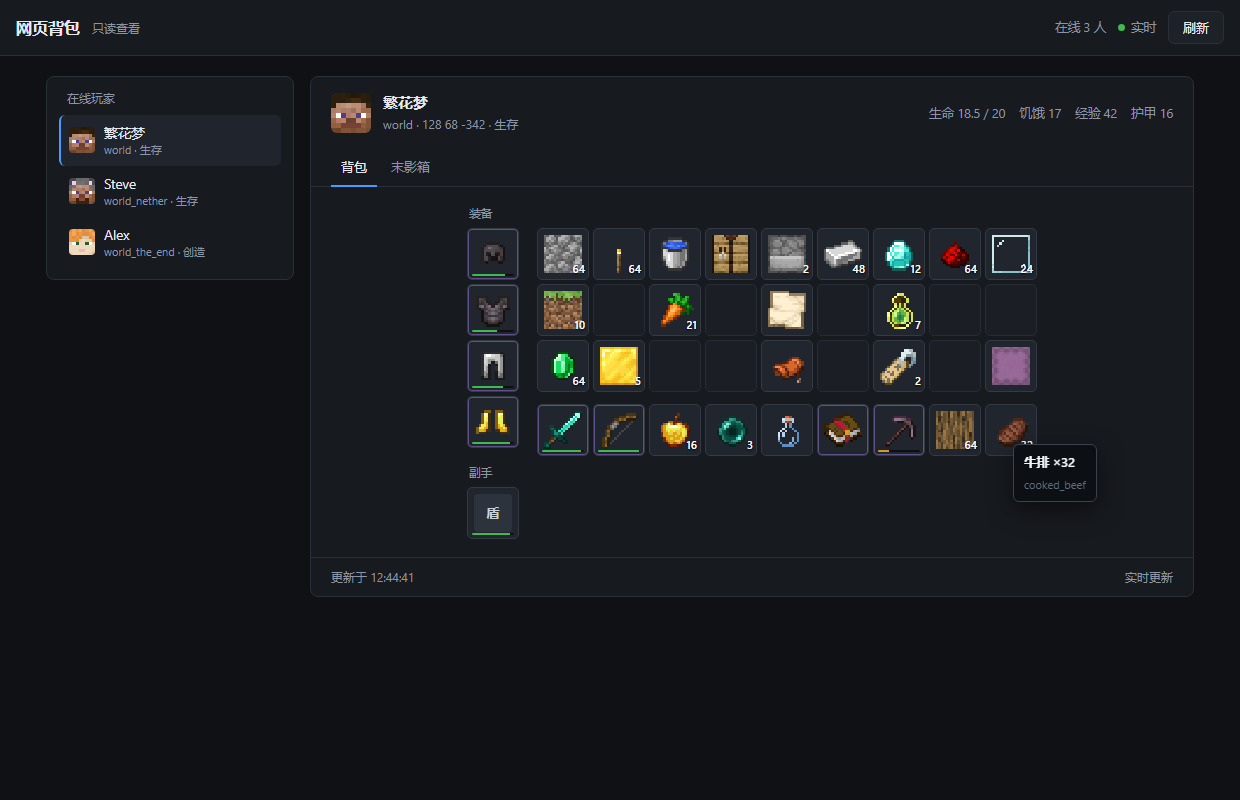
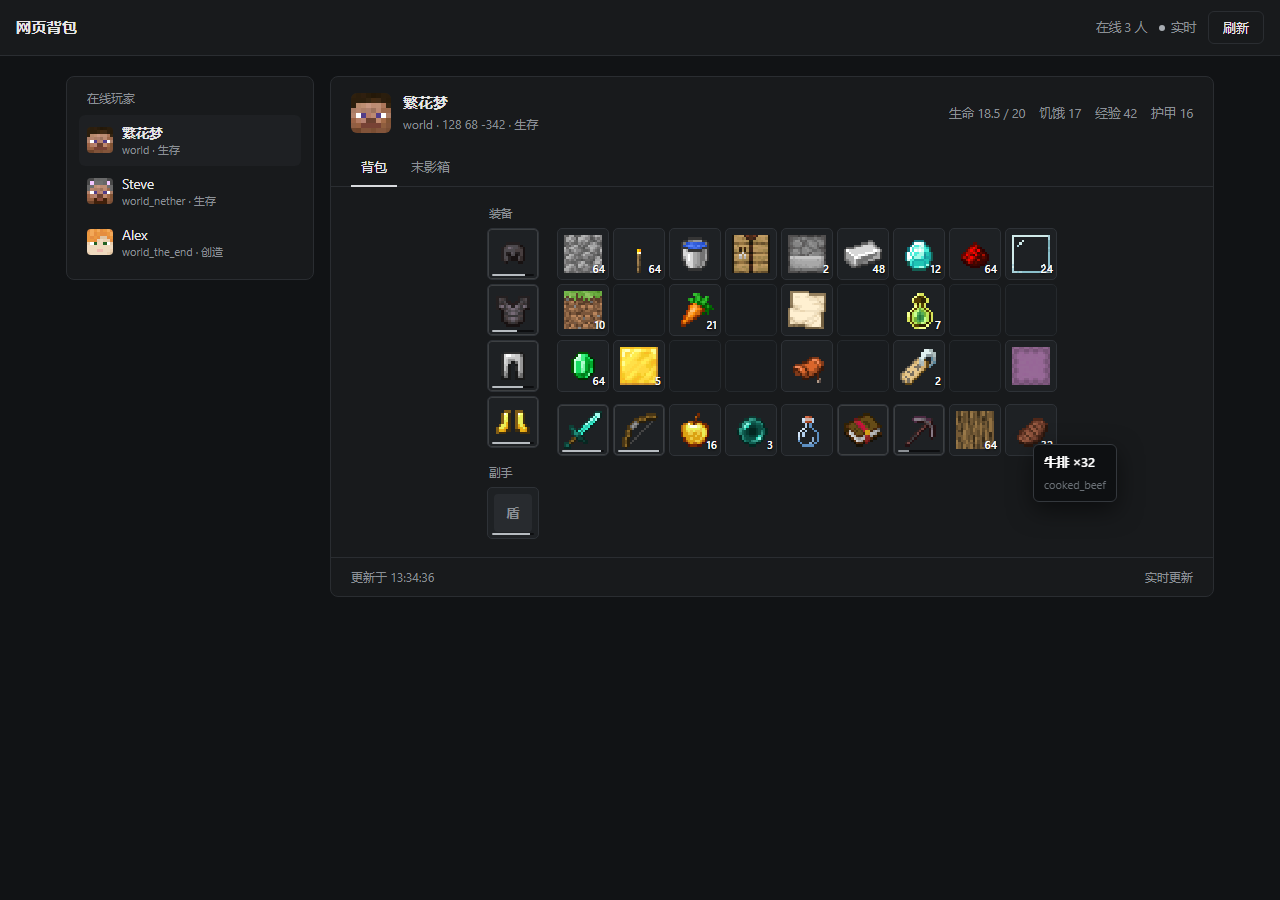
style: 界面改成中性灰，去掉强调色（1.3.1）

diff --git a/src/main/resources/web/index.html b/src/main/resources/web/index.html
@@ -7,15 +7,12 @@
 <title>网页背包</title>
 <style>
   :root{
-    --bg:#0f1115;
-    --panel:#171a1f;
-    --panel-2:#1d2128;
-    --line:#2a3038;
-    --text:#e6e9ee;
-    --muted:#8b95a5;
-    --accent:#4c9aff;
-    --ok:#3fb950;
-    --bad:#f85149;
+    --bg:#111315;
+    --panel:#181a1c;
+    --panel-2:#1e2023;
+    --line:#2a2d31;
+    --text:#e8e8e8;
+    --muted:#8b9096;
     --cell:52px;
     --gap:4px;
   }
@@ -34,20 +31,19 @@
     background:var(--panel);border-bottom:1px solid var(--line);
     position:sticky;top:0;z-index:10;
   }
-  .brand{font-size:16px;font-weight:600}
-  .top .sub{font-size:12px;color:var(--muted)}
+  .brand{font-size:15px;font-weight:600;letter-spacing:.02em}
   .top .grow{flex:1}
   .top .online{font-size:12.5px;color:var(--muted)}
   .top .status{display:flex;align-items:center;gap:6px;font-size:12.5px;color:var(--muted)}
-  .top .status i{width:7px;height:7px;border-radius:50%;background:var(--muted)}
-  .top .status.ok i{background:var(--ok)}
-  .top .status.bad i{background:var(--bad)}
+  .top .status i{width:6px;height:6px;border-radius:50%;background:#4a4e53}
+  .top .status.ok i{background:#a8adb3}
+  .top .status.bad i{background:#4a4e53}
   .btn{
     font:inherit;font-size:13px;color:var(--text);
-    background:var(--panel-2);border:1px solid var(--line);
+    background:transparent;border:1px solid var(--line);
     border-radius:6px;padding:6px 14px;cursor:pointer;
   }
-  .btn:hover{border-color:#3a424e}
+  .btn:hover{background:var(--panel-2);border-color:#3a3e43}
   .btn:disabled{opacity:.6;cursor:default}
 
   /* 布局 */
@@ -70,15 +66,15 @@
   .prow{
     display:flex;align-items:center;gap:9px;
     padding:7px 8px;border-radius:6px;cursor:pointer;
-    border-left:2px solid transparent;
   }
-  .prow:hover{background:#20252d}
-  .prow.active{background:#20252d;border-left-color:var(--accent)}
-  .prow img{width:26px;height:26px;border-radius:4px;image-rendering:pixelated;background:#242a33}
+  .prow:hover{background:var(--panel-2)}
+  .prow.active{background:var(--panel-2)}
+  .prow.active .name{font-weight:600}
+  .prow img{width:26px;height:26px;border-radius:4px;image-rendering:pixelated;background:#232528}
   .prow .letter{
     width:26px;height:26px;border-radius:4px;display:none;
     align-items:center;justify-content:center;
-    background:#242a33;color:#b8c2d0;font-size:12px;font-weight:600
+    background:#232528;color:var(--muted);font-size:12px;font-weight:600
   }
   .prow .info{min-width:0}
   .prow .name{
@@ -98,7 +94,7 @@
   }
   .avatar{
     width:40px;height:40px;border-radius:6px;image-rendering:pixelated;
-    background:#242a33;flex:none;
+    background:#232528;flex:none;
   }
   .who{min-width:0}
   .who h2{font-size:15px;font-weight:600;line-height:1.3}
@@ -119,12 +115,12 @@
     padding:8px 10px;margin-bottom:-1px;cursor:pointer;
   }
   .tab:hover{color:var(--text)}
-  .tab.active{color:var(--text);border-bottom-color:var(--accent)}
+  .tab.active{color:var(--text);border-bottom-color:#d8dadd}
   .tab[hidden]{display:none}
 
   .notice{
     display:none;padding:9px 20px;font-size:12.5px;
-    color:#ffd7a8;background:#2a2218;border-bottom:1px solid #3d3120;
+    color:var(--muted);background:#1b1d1f;border-bottom:1px solid var(--line);
   }
   .notice.show{display:block}
 
@@ -146,19 +142,19 @@
 
   .cell{
     width:var(--cell);height:var(--cell);border-radius:5px;
-    background:#21262e;border:1px solid #333a44;
+    background:#1e2124;border:1px solid #2e3237;
     position:relative;display:grid;place-items:center;
   }
-  .cell.empty{background:#1b1f25;border-color:#262c34}
-  .cell.filled:hover{border-color:var(--accent)}
-  .cell .hint{font-size:11px;color:#5b6675}
-  .cell.ench{box-shadow:inset 0 0 0 1px rgba(167,139,250,.45)}
+  .cell.empty{background:#191c1f;border-color:#25292d}
+  .cell.filled:hover{border-color:#4a4f55}
+  .cell .hint{font-size:11px;color:#5a6067}
+  .cell.ench{box-shadow:inset 0 0 0 1px rgba(255,255,255,.14)}
 
   .icon{width:38px;height:38px;position:relative}
   .icon img{width:100%;height:100%;object-fit:contain;image-rendering:pixelated}
   .icon .fallback{
     display:none;width:100%;height:100%;border-radius:4px;
-    place-items:center;background:#2d333d;color:#c7d0dc;font-size:13px;font-weight:600;
+    place-items:center;background:#282b2f;color:var(--muted);font-size:13px;font-weight:600;
   }
   .count{
     position:absolute;right:3px;bottom:1px;font-size:11px;font-weight:600;color:#fff;
@@ -166,9 +162,9 @@
   }
   .dura{
     position:absolute;left:4px;right:4px;bottom:3px;height:2px;
-    background:rgba(0,0,0,.6);border-radius:1px;overflow:hidden;pointer-events:none;
+    background:rgba(0,0,0,.55);border-radius:1px;overflow:hidden;pointer-events:none;
   }
-  .dura i{display:block;height:100%}
+  .dura i{display:block;height:100%;background:#b7bcc1}
 
   .panel-foot{
     display:flex;justify-content:space-between;gap:12px;
@@ -182,16 +178,16 @@
   .tip{
     position:fixed;z-index:40;pointer-events:none;opacity:0;
     max-width:260px;padding:8px 10px;border-radius:6px;
-    background:#0c0f13;border:1px solid #3a424e;
+    background:#0e1012;border:1px solid #34383d;
     box-shadow:0 8px 24px rgba(0,0,0,.5);
     font-size:12.5px;line-height:1.55;
   }
   .tip.show{opacity:1}
-  .tip .name{color:#f2f5f9;font-weight:600}
-  .tip .lore{color:#b18cf0}
-  .tip .ench{color:#7cc0f5}
+  .tip .name{color:#fff;font-weight:600}
+  .tip .lore{color:#c3c7cc}
+  .tip .ench{color:#a9aeb4}
   .tip .dura{color:var(--muted)}
-  .tip .id{color:#5f6b7b;font-size:11px;margin-top:4px}
+  .tip .id{color:#6a7076;font-size:11px;margin-top:4px}
 
   /* 浮层 */
   .overlay{
@@ -208,8 +204,8 @@
   .modal p{font-size:13px;color:var(--muted);line-height:1.7}
   .modal code{
     display:block;margin-top:12px;padding:8px 10px;border-radius:6px;
-    background:#0c0f13;border:1px solid #2a3038;
-    font-family:ui-monospace,Consolas,monospace;font-size:13px;color:#9ad19f;
+    background:#0e1012;border:1px solid var(--line);
+    font-family:ui-monospace,Consolas,monospace;font-size:13px;color:#cfd3d7;
   }
 
   @media (max-width:860px){
@@ -217,8 +213,8 @@
     .layout{grid-template-columns:1fr;padding:14px 12px}
     .players{max-height:none}
     .players ul{display:flex;gap:6px;overflow-x:auto;padding-bottom:2px}
-    .prow{flex:none;border-left:none;border-bottom:2px solid transparent}
-    .prow.active{border-left:none;border-bottom-color:var(--accent)}
+    .prow{flex:none}
+    .prow.active{border-bottom:2px solid #d8dadd}
     .panel-head{flex-wrap:wrap}
     .stats{margin-left:0;width:100%;text-align:left}
     .icon{width:32px;height:32px}
@@ -234,7 +230,6 @@
 
 <header class="top">
   <div class="brand">网页背包</div>
-  <div class="sub">只读查看</div>
   <div class="grow"></div>
   <div class="online" id="online">在线 0 人</div>
   <div class="status" id="status"><i></i><span>连接中</span></div>
@@ -744,7 +739,7 @@ window.WB_CFG = {
           bar.className = "dura";
           const fill = document.createElement("i");
           fill.style.width = (left * 100).toFixed(1) + "%";
-          fill.style.background = left > 0.5 ? "#3fb950" : left > 0.2 ? "#d29922" : "#f85149";
+          fill.style.opacity = left > 0.5 ? "1" : left > 0.2 ? ".75" : ".5";
           bar.appendChild(fill);
           cell.appendChild(bar);
         }

diff --git a/README.md b/README.md
@@ -6,7 +6,7 @@ Purpur / Paper 26.3 的插件，用浏览器看服务器上在线玩家的背包
 
 ## 安装
 
-把 `WebBag-1.3.0.jar` 丢进 `plugins/`，重启。游戏里敲 `/webbag link`，聊天栏会给一条带口令的网址，浏览器打开就能看，左边是在线玩家列表，点谁看谁。
+把 `WebBag-1.3.1.jar` 丢进 `plugins/`，重启。游戏里敲 `/webbag link`，聊天栏会给一条带口令的网址，浏览器打开就能看，左边是在线玩家列表，点谁看谁。
 
 口令第一次访问后存在 Cookie 里（30 天），之后直接 `http://服务器IP:5001` 就行。口令自动生成在 `plugins/WebBag/config.yml`。
 
